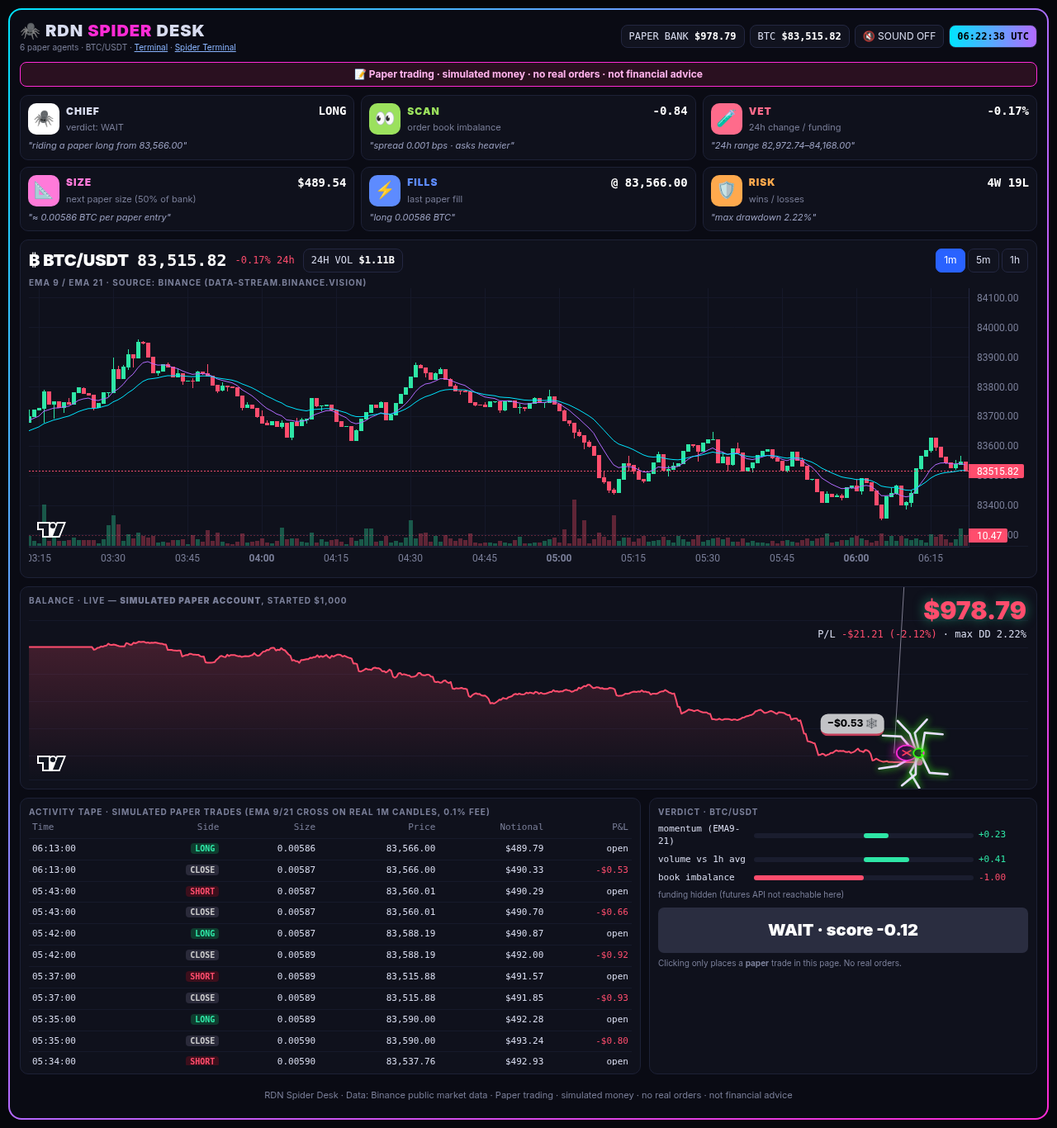
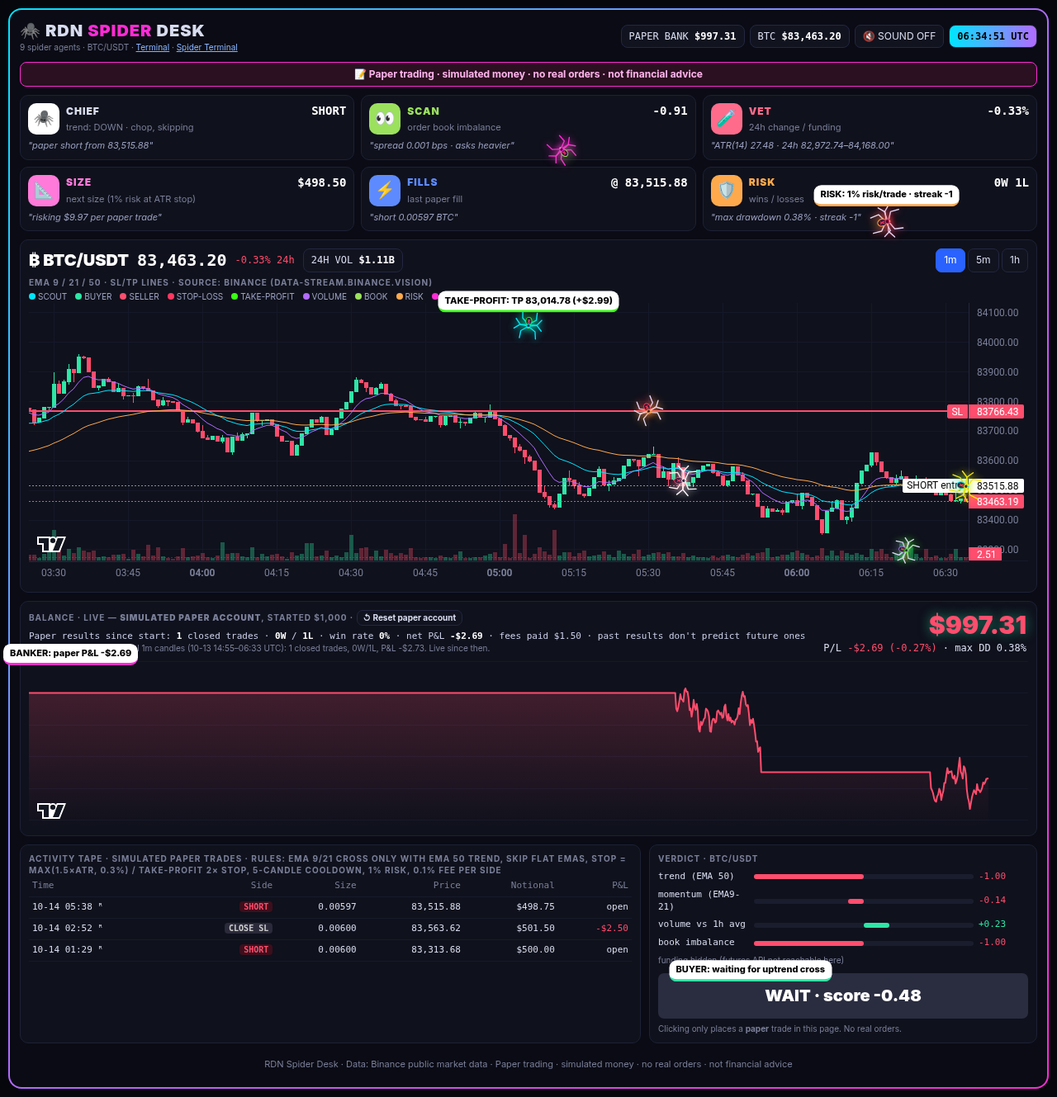
Desk: 9 job spiders, trend/ATR paper strategy with SL/TP lines, persisted paper account + stats

diff --git a/desk/index.html b/desk/index.html
@@ -21,8 +21,8 @@ button{font:inherit;cursor:pointer;background:#11131f;color:#d8dcef;border:1px s
 #chart{height:340px}#bal{height:210px}
 .balwrap{position:relative}.btot{position:absolute;right:12px;top:8px;text-align:right;z-index:3}.btot .v{font-size:30px;font-weight:900;color:#2ee6a6;text-shadow:0 0 14px #2ee6a688}
 #spider{position:absolute;left:0;top:0;width:90px;height:90px;pointer-events:none;z-index:4;--c1:#ff2bd6;--c2:#39ff14;--leg:#e8e0ff}#spider svg{width:100%;height:100%;filter:drop-shadow(0 0 10px #39ff14)}
-#silk{position:absolute;inset:0;pointer-events:none;z-index:3}
-#sbub{position:absolute;left:0;top:0;z-index:5;background:#fff;color:#000;font-weight:800;padding:4px 8px;border-radius:9px;white-space:nowrap;pointer-events:none;border-bottom:3px solid #ff2bd6}
+#ov{position:fixed;inset:0;pointer-events:none;z-index:20}
+.sb{position:fixed;left:0;top:0;z-index:21;font-size:11px;transition:opacity .35s;background:#fff;color:#000;font-weight:800;padding:4px 8px;border-radius:9px;white-space:nowrap;pointer-events:none;border-bottom:3px solid #ff2bd6}
 .lab{font-size:10px;color:#7a7f99;letter-spacing:1px;text-transform:uppercase;font-weight:700}
 .bottom{display:grid;grid-template-columns:1.6fr 1fr;gap:10px}
 table{width:100%;border-collapse:collapse;font-family:monospace;font-size:11px}th,td{padding:5px 4px;text-align:right;border-bottom:1px solid #161a2b}th{color:#7a7f99;font-weight:500}td:first-child,th:first-child{text-align:left}
@@ -35,12 +35,14 @@ table{width:100%;border-collapse:collapse;font-family:monospace;font-size:11px}t
 footer{text-align:center;color:#7a7f99;padding:8px;font-size:11px}a{color:#8ab4ff}
 @media(max-width:820px){.agents{grid-template-columns:repeat(2,1fr)}.bottom{grid-template-columns:1fr}#chart{height:260px}.btot .v{font-size:22px}#spider{width:64px;height:64px}}
 @media(max-width:420px){.agents{grid-template-columns:1fr}}
-</style></head><body><svg width="0" height="0" style="position:absolute"><style>.lg{stroke:var(--leg);stroke-width:2.2;fill:none;stroke-linecap:round}.L{transform-origin:32px 34px;animation:wg .18s infinite alternate ease-in-out}.R{transform-origin:32px 34px;animation:wg .18s infinite alternate-reverse ease-in-out}@keyframes wg{from{transform:rotate(-7deg)}to{transform:rotate(7deg)}}</style><defs><symbol id="spd" viewBox="0 0 64 64"><g class="L"><path class="lg" d="M28 30 Q16 18 8 22"/><path class="lg" d="M27 33 Q14 28 5 34"/><path class="lg" d="M27 36 Q14 40 6 48"/><path class="lg" d="M28 39 Q18 50 12 58"/></g>
+#stats{font-family:monospace;font-size:11px;margin:6px 0 0;color:#c9cde8}#stats b{color:#fff}#seed{font-size:10px;color:#7a7f99}.legend{display:flex;flex-wrap:wrap;gap:4px 10px;font-size:10px;color:#9aa0c0;margin-top:4px}.legend i{display:inline-block;width:8px;height:8px;border-radius:50%;margin-right:3px}
+</style></head><body><svg width="0" height="0" style="position:absolute"><style>.lg{stroke:var(--leg);stroke-width:2.2;fill:none;stroke-linecap:round}.L{transform-origin:32px 34px;animation:wg .18s infinite alternate ease-in-out}.R{transform-origin:32px 34px;animation:wg .18s infinite alternate-reverse ease-in-out}@keyframes wg{from{transform:rotate(-7deg)}to{transform:rotate(7deg)}}#stats{font-family:monospace;font-size:11px;margin:6px 0 0;color:#c9cde8}#stats b{color:#fff}#seed{font-size:10px;color:#7a7f99}.legend{display:flex;flex-wrap:wrap;gap:4px 10px;font-size:10px;color:#9aa0c0;margin-top:4px}.legend i{display:inline-block;width:8px;height:8px;border-radius:50%;margin-right:3px}
+</style><defs><symbol id="spd" viewBox="0 0 64 64"><g class="L"><path class="lg" d="M28 30 Q16 18 8 22"/><path class="lg" d="M27 33 Q14 28 5 34"/><path class="lg" d="M27 36 Q14 40 6 48"/><path class="lg" d="M28 39 Q18 50 12 58"/></g>
 <g class="R"><path class="lg" d="M36 30 Q48 18 56 22"/><path class="lg" d="M37 33 Q50 28 59 34"/><path class="lg" d="M37 36 Q50 40 58 48"/><path class="lg" d="M36 39 Q46 50 52 58"/></g>
 <ellipse cx="32" cy="42" rx="10" ry="12" fill="#1a0b2e" stroke="var(--c1)" stroke-width="1.5"/><path d="M28 40 L32 46 L36 40 M28 46 L32 50 L36 46" stroke="#ff3860" stroke-width="2" fill="none"/>
 <circle cx="32" cy="28" r="7" fill="#1a0b2e" stroke="var(--c2)" stroke-width="1.5"/><circle cx="29" cy="27" r="1.8" fill="var(--c2)"/><circle cx="35" cy="27" r="1.8" fill="var(--c2)"/><circle cx="31" cy="24.5" r="1" fill="var(--c1)"/><circle cx="33" cy="24.5" r="1" fill="var(--c1)"/></symbol></defs></svg>
 <div class="frame">
-<header><div class="brand">🕷 RDN <span>SPIDER</span> DESK<small>6 paper agents · BTC/USDT · <a href="../">Terminal</a> · <a href="../skull/">Spider Terminal</a></small></div>
+<header><div class="brand">🕷 RDN <span>SPIDER</span> DESK<small>9 spider agents · BTC/USDT · <a href="../">Terminal</a> · <a href="../skull/">Spider Terminal</a></small></div>
 <div class="pills"><div class="pill">PAPER BANK <b id="hbank">$1,000.00</b></div><div class="pill">BTC <b id="hbtc">—</b></div><button id="snd">🔇 SOUND OFF</button><div class="pill" id="clock">--:--:-- UTC</div></div></header>
 <div class="warn">📝 Paper trading · simulated money · no real orders · not financial advice</div>
 <div class="agents">
@@ -54,90 +56,149 @@ footer{text-align:center;color:#7a7f99;padding:8px;font-size:11px}a{color:#8ab4f
 <div class="panel"><div class="ch-head"><span class="big">₿ BTC/USDT</span><span class="big mono" id="px">—</span><span id="chg" class="mono"></span>
 <span class="pill">24H VOL <b id="vol">—</b></span><span class="pill" id="fundP" style="display:none">FUNDING <b id="fund">—</b></span>
 <span style="margin-left:auto"><button data-i="1m" class="on">1m</button> <button data-i="5m">5m</button> <button data-i="1h">1h</button></span></div>
-<div class="lab" id="emaLab">EMA 9 / EMA 21 · source: Binance (data-stream.binance.vision)</div><div id="chart"></div></div>
-<div class="panel balwrap"><div class="lab">Balance · live — <b>simulated paper account</b>, started $1,000</div>
+<div class="lab" id="emaLab">EMA 9 / 21 / 50 · SL/TP lines · source: Binance (data-stream.binance.vision)</div><div class="legend" id="legend"></div><div id="chart"></div></div>
+<div class="panel balwrap"><div class="lab">Balance · live — <b>simulated paper account</b>, started $1,000 · <button id="rst" style="padding:2px 7px">↺ Reset paper account</button></div><div id="stats">—</div><div id="seed"></div>
 <div class="btot"><div class="v" id="bv">$1,000.00</div><div class="mono" id="bpl"></div></div>
-<div id="bal"></div><canvas id="silk"></canvas><div id="sbub">🕷 warming up</div></div>
+<div id="bal"></div></div>
 <div class="bottom">
-<div class="panel"><div class="lab">Activity tape · simulated paper trades (EMA 9/21 cross on real 1m candles, 0.1% fee)</div><div id="tape"><table><thead><tr><th>Time</th><th>Side</th><th>Size</th><th>Price</th><th>Notional</th><th>P&amp;L</th></tr></thead><tbody id="tb"></tbody></table></div></div>
+<div class="panel"><div class="lab">Activity tape · simulated paper trades · rules: EMA 9/21 cross only with EMA 50 trend, skip flat EMAs, stop = max(1.5×ATR, 0.3%) / take-profit 2× stop, 5-candle cooldown, 1% risk, 0.1% fee per side</div><div id="tape"><table><thead><tr><th>Time</th><th>Side</th><th>Size</th><th>Price</th><th>Notional</th><th>P&amp;L</th></tr></thead><tbody id="tb"></tbody></table></div></div>
 <div class="panel"><div class="lab">Verdict · BTC/USDT</div><div id="sigs"></div>
 <button id="verdict" class="vW">WAIT</button><div style="font-size:10px;color:#7a7f99;margin-top:6px">Clicking only places a <b>paper</b> trade in this page. No real orders.</div></div>
 </div>
-<footer>RDN Spider Desk · Data: Binance public market data · Paper trading · simulated money · no real orders · not financial advice</footer>
+<canvas id="ov"></canvas><div id="bubs"></div><footer>RDN Spider Desk · Data: Binance public market data · Paper trading · simulated money · no real orders · not financial advice</footer>
 </div>
 <script src="../spider.js"></script>
 <script>
 const R="https://data-api.binance.vision/api/v3",WS="wss://data-stream.binance.vision/stream?streams=";
-const $=i=>document.getElementById(i),f$=n=>n.toLocaleString("en-US",{style:"currency",currency:"USD"}),fp=n=>n.toLocaleString("en-US",{minimumFractionDigits:2,maximumFractionDigits:2});
+const $=i=>document.getElementById(i),f$=n=>(n<0?"-":"")+"$"+Math.abs(n).toLocaleString("en-US",{minimumFractionDigits:2,maximumFractionDigits:2}),fp=n=>n.toLocaleString("en-US",{minimumFractionDigits:2,maximumFractionDigits:2});
 let iv="1m",last=null,sound=false,actx,book={imb:0,spr:0},funding=null,t24=null;
-// ---- main chart
+// ---------- main chart
 const opt={layout:{background:{color:"#0f111c"},textColor:"#7a7f99"},grid:{vertLines:{color:"#151829"},horzLines:{color:"#151829"}},timeScale:{timeVisible:true,borderColor:"#232741"},rightPriceScale:{borderColor:"#232741"},autoSize:true};
 const ch=LightweightCharts.createChart($("chart"),opt);
 const cs=ch.addCandlestickSeries({upColor:"#2ee6a6",downColor:"#ff4d6d",wickUpColor:"#2ee6a6",wickDownColor:"#ff4d6d",borderVisible:false});
 const vs=ch.addHistogramSeries({priceScaleId:"v",priceFormat:{type:"volume"}});ch.priceScale("v").applyOptions({scaleMargins:{top:.82,bottom:0}});
-const e9=ch.addLineSeries({color:"#b26bff",lineWidth:1,priceLineVisible:false,lastValueVisible:false}),e21=ch.addLineSeries({color:"#00e5ff",lineWidth:1,priceLineVisible:false,lastValueVisible:false});
+const LS=c=>ch.addLineSeries({color:c,lineWidth:1,priceLineVisible:false,lastValueVisible:false,crosshairMarkerVisible:false});
+const e9=LS("#b26bff"),e21=LS("#00e5ff"),e50=LS("#ffa94d");
 const mk=k=>({time:k[0]/1000,open:+k[1],high:+k[2],low:+k[3],close:+k[4],vol:+k[5]});
 function ema(a,n){const k=2/(n+1);let e=a[0],o=[];for(const v of a){e=v*k+e*(1-k);o.push(e)}return o}
+function atr(c,n=14){let o=[],a=null;for(let i=0;i<c.length;i++){const tr=i?Math.max(c[i].high-c[i].low,Math.abs(c[i].high-c[i-1].close),Math.abs(c[i].low-c[i-1].close)):c[i].high-c[i].low;a=a==null?tr:(a*(n-1)+tr)/n;o.push(a)}return o}
 let candles=[],kws;
 async function loadChart(){const d=await (await fetch(`${R}/klines?symbol=BTCUSDT&interval=${iv}&limit=300`)).json();candles=d.map(mk);drawAll();
- if(kws)kws.close();kws=new WebSocket(WS+"btcusdt@kline_"+iv);kws.onmessage=e=>{const k=JSON.parse(e.data).data.k,c={time:k.t/1000,open:+k.o,high:+k.h,low:+k.l,close:+k.c,vol:+k.v};
- const L=candles[candles.length-1];if(L&&L.time===c.time)candles[candles.length-1]=c;else if(!L||c.time>L.time){candles.push(c);if(candles.length>400)candles.shift()}
- cs.update(c);vs.update({time:c.time,value:c.vol,color:c.close>=c.open?"#2ee6a655":"#ff4d6d55"});const cl=candles.map(x=>x.close),a=ema(cl,9),b=ema(cl,21);e9.update({time:c.time,value:a.at(-1)});e21.update({time:c.time,value:b.at(-1)})}}
-function drawAll(){cs.setData(candles);vs.setData(candles.map(c=>({time:c.time,value:c.vol,color:c.close>=c.open?"#2ee6a655":"#ff4d6d55"})));const cl=candles.map(x=>x.close),a=ema(cl,9),b=ema(cl,21);
- e9.setData(candles.map((c,i)=>({time:c.time,value:a[i]})));e21.setData(candles.map((c,i)=>({time:c.time,value:b[i]})))}
+ if(kws)kws.close();const my=iv;kws=new WebSocket(WS+"btcusdt@kline_"+iv);kws.onmessage=e=>{if(my!==iv)return;const k=JSON.parse(e.data).data.k,c=mk([k.t,k.o,k.h,k.l,k.c,k.v]);
+ const L=candles.at(-1);if(L&&L.time===c.time)candles[candles.length-1]=c;else if(!L||c.time>L.time){candles.push(c);if(candles.length>400)candles.shift()}
+ cs.update(c);vs.update({time:c.time,value:c.vol,color:c.close>=c.open?"#2ee6a655":"#ff4d6d55"});const cl=candles.map(x=>x.close);[[e9,9],[e21,21],[e50,50]].forEach(([s,n])=>s.update({time:c.time,value:ema(cl,n).at(-1)}))}}
+function drawAll(){cs.setData(candles);vs.setData(candles.map(c=>({time:c.time,value:c.vol,color:c.close>=c.open?"#2ee6a655":"#ff4d6d55"})));const cl=candles.map(x=>x.close);
+ [[e9,9],[e21,21],[e50,50]].forEach(([s,n])=>{const e=ema(cl,n);s.setData(candles.map((c,i)=>({time:c.time,value:e[i]})))})}
 document.querySelectorAll("[data-i]").forEach(b=>b.onclick=()=>{document.querySelectorAll("[data-i]").forEach(x=>x.classList.remove("on"));b.classList.add("on");iv=b.dataset.i;loadChart()});
-// ---- paper strategy on 1m candles (independent of the chart tab)
-const P={cash:1000,pos:0,side:null,entry:0,qty:0,trades:[],w:0,l:0,hist:[],peak:1000,dd:0};let m1=[];
-function equity(px){return P.cash+(P.side?P.qty*(P.side==="LONG"?px-P.entry:P.entry-px):0)}
-function trade(side,px,t,manual){const fee=.001;if(P.side){const pnl=P.qty*(P.side==="LONG"?px-P.entry:P.entry-px)-P.qty*px*fee;P.cash+=pnl;pnl>=0?P.w++:P.l++;
-  P.trades.unshift({t,side:"CLOSE",qty:P.qty,px,not:P.qty*px,pnl,m:manual});bub(pnl);P.side=null;P.qty=0}
- if(side!=="CLOSE"){const not=P.cash*.5;P.qty=not/px;P.entry=px;P.side=side;P.cash-=not*fee;P.trades.unshift({t,side,qty:P.qty,px,not,pnl:null,m:manual})}
- if(P.trades.length>60)P.trades.length=60;if(sound&&!manual)beep(side!=="SHORT")}
-function mark(t,px){const e=equity(px);const h=P.hist,tt=Math.floor(t);if(h.length&&h.at(-1).time>=tt)h.at(-1).value=e;else h.push({time:tt,value:e});P.peak=Math.max(P.peak,e);P.dd=Math.max(P.dd,(P.peak-e)/P.peak*100)}
-async function startPaper(){const d=await (await fetch(`${R}/klines?symbol=BTCUSDT&interval=1m&limit=500`)).json();m1=d.map(mk);
- const cl=m1.map(c=>c.close),a=ema(cl,9),b=ema(cl,21);for(let i=22;i<m1.length-1;i++){const x=a[i-1]-b[i-1],y=a[i]-b[i];if(x<=0&&y>0)trade("LONG",m1[i].close,m1[i].time);if(x>=0&&y<0)trade("SHORT",m1[i].close,m1[i].time);mark(m1[i].time,m1[i].close)}
- const w=new WebSocket(WS+"btcusdt@kline_1m");w.onmessage=e=>{const k=JSON.parse(e.data).data.k,c=mk([k.t,k.o,k.h,k.l,k.c,k.v]);if(m1.at(-1).time===c.time)m1[m1.length-1]=c;else m1.push(c);
-  if(k.x){const cl=m1.map(c=>c.close),a=ema(cl,9),b=ema(cl,21),n=cl.length-1,x=a[n-1]-b[n-1],y=a[n]-b[n];if(x<=0&&y>0)trade("LONG",c.close,Date.now()/1000);if(x>=0&&y<0)trade("SHORT",c.close,Date.now()/1000)}};
+// ---------- paper strategy (1m candles, persisted)
+const KEY="rdnDeskPaperV2",FEE=.001,RISK=.01,DDMAX=10,COOL=5,PAUSE_N=30;
+const fresh=()=>({cash:1000,pos:null,trades:[],hist:[],w:0,l:0,fees:0,streak:0,cool:0,pauseUntil:0,halted:false,peak:1000,dd:0,lastT:0,seed:null,events:[]});
+let P=JSON.parse(localStorage.getItem(KEY)||"null")||fresh(),m1=[],live=false;
+const save=()=>{P.hist=P.hist.slice(-3000);P.trades=P.trades.slice(0,200);localStorage.setItem(KEY,JSON.stringify(P))};
+function ev(who,msg){P.events.unshift({who,msg,t:Date.now()});P.events.length=Math.min(P.events.length,30)}
+function equity(px){return P.cash+(P.pos?P.pos.qty*(P.pos.side==="LONG"?px-P.pos.entry:P.pos.entry-px):0)}
+function closePos(px,t,why){const p=P.pos,gross=p.qty*(p.side==="LONG"?px-p.entry:p.entry-px),fee=p.qty*px*FEE,pnl=gross-fee;P.cash+=pnl;P.fees+=fee;
+ const net=pnl-p.fee;net>=0?(P.w++,P.streak=Math.max(0,P.streak)+1):(P.l++,P.streak=Math.min(0,P.streak)-1);
+ P.trades.unshift({t,side:"CLOSE",why,qty:p.qty,px,not:p.qty*px,pnl:net,live});P.pos=null;P.cool=COOL;
+ if(P.streak<=-3){P.pauseUntil=t+PAUSE_N*60;ev("RISK",`3 losses in a row → pausing ${PAUSE_N}m`)}
+ ev(why==="TP"?"TP":why==="SL"?"SL":"SELLER",`${why} close ${p.side} @ ${fp(px)} → ${net>=0?"+":""}${f$(net)}`);if(live&&sound)beep(net>=0)}
+function openPos(side,px,a,t,manual){if(P.halted||t<P.pauseUntil||P.pos)return false;const eq=P.cash,sl=Math.max(1.5*a,px*.003),qty=Math.min(eq*RISK/sl,eq*.5/px);if(!(qty>0))return false;
+ const fee=qty*px*FEE;P.cash-=fee;P.fees+=fee;P.pos={side,entry:px,qty,sl:side==="LONG"?px-sl:px+sl,tp:side==="LONG"?px+2*sl:px-2*sl,t,fee};
+ P.trades.unshift({t,side,qty,px,not:qty*px,pnl:null,live,manual});ev(side==="LONG"?"BUYER":"SELLER",`${manual?"manual ":""}${side} @ ${fp(px)} · SL ${fp(P.pos.sl)} · TP ${fp(P.pos.tp)}`);return true}
+function mark(t,px){const e=equity(px),h=P.hist,tt=Math.floor(t/60)*60;if(h.length&&h.at(-1).time>=tt)h.at(-1).value=e;else h.push({time:tt,value:e});P.peak=Math.max(P.peak,e);const dd=(P.peak-e)/P.peak*100;P.dd=Math.max(P.dd,dd);
+ if(dd>=DDMAX&&!P.halted){P.halted=true;ev("RISK",`drawdown ${dd.toFixed(1)}% ≥ ${DDMAX}% → trading halted until reset`)}}
+let IND={};
+function step(i){const c=m1[i];if(i<60)return;const cl=m1.slice(0,i+1).map(x=>x.close);const a9=ema(cl,9),a21=ema(cl,21),a50=ema(cl,50),A=atr(m1.slice(0,i+1)),n=cl.length-1,a=A[n];
+ // exits on this candle's range (if both, assume stop first — conservative)
+ if(P.pos&&c.time>P.pos.t){const p=P.pos,L=p.side==="LONG";if(L?c.low<=p.sl:c.high>=p.sl)closePos(p.sl,c.time+60,"SL");else if(L?c.high>=p.tp:c.low<=p.tp)closePos(p.tp,c.time+60,"TP")}
+ const slope=(a50[n]-a50[n-10])/c.close,gap=Math.abs(a9[n]-a21[n])/c.close,flat=Math.abs(slope)<.0001||gap<.00002;
+ IND={a9:a9[n],a21:a21[n],a50:a50[n],atr:a,slope,flat,trend:c.close>a50[n]&&slope>0?"UP":c.close<a50[n]&&slope<0?"DOWN":"MIXED"};
+ if(P.cool>0)P.cool--;else if(!P.pos&&!flat){const up=a9[n-1]<=a21[n-1]&&a9[n]>a21[n],dn=a9[n-1]>=a21[n-1]&&a9[n]<a21[n];
+  if(up&&IND.trend==="UP")openPos("LONG",c.close,a,c.time+60);if(dn&&IND.trend==="DOWN")openPos("SHORT",c.close,a,c.time+60)}
+ mark(c.time+60,c.close);P.lastT=c.time}
+async function startPaper(){const d=await (await fetch(`${R}/klines?symbol=BTCUSDT&interval=1m&limit=1000`)).json();m1=d.map(mk);m1.pop();// drop unfinished candle
+ const seeding=!P.lastT;const t0=Date.now();
+ for(let i=0;i<m1.length;i++)if(m1[i].time>P.lastT)step(i);
+ if(seeding){const e=equity(m1.at(-1).close);P.seed={candles:m1.length-60,from:m1[60].time,to:m1.at(-1).time,pnl:e-1000,w:P.w,l:P.l,trades:P.trades.filter(t=>t.side==="CLOSE").length,end:e};}
+ live=true;save();
+ const w=new WebSocket(WS+"btcusdt@kline_1m");w.onmessage=e=>{const k=JSON.parse(e.data).data.k;if(!k.x){// intrabar SL/TP check on live price
+   const px=+k.c;if(P.pos){const p=P.pos,L=p.side==="LONG";if(L?px<=p.sl:px>=p.sl)closePos(px,Date.now()/1000,"SL");else if(L?px>=p.tp:px<=p.tp)closePos(px,Date.now()/1000,"TP");if(!P.pos)save()}return}
+  const c=mk([k.t,k.o,k.h,k.l,k.c,k.v]);if(c.time<=P.lastT)return;m1.push(c);if(m1.length>1200)m1.shift();step(m1.length-1);save()};
  render()}
-// ---- live ticker, book, funding
-new WebSocket(WS+"btcusdt@ticker/btcusdt@depth20@1000ms").onmessage=e=>{const m=JSON.parse(e.data);if(m.stream.endsWith("ticker")){t24=m.data;last=+t24.c}else{const d=m.data,bq=d.bids.reduce((s,x)=>s+ +x[1],0),aq=d.asks.reduce((s,x)=>s+ +x[1],0);
- book={imb:(bq-aq)/(bq+aq),spr:(d.asks[0][0]-d.bids[0][0])/d.bids[0][0]*1e4}}};
+$("rst").onclick=()=>{if(!confirm("Reset the simulated paper account to $1,000?"))return;localStorage.removeItem(KEY);P=fresh();P.lastT=Math.floor(Date.now()/1000);P.seed={reset:true};P.hist=[];mark(Date.now()/1000,last||m1.at(-1).close);save();render()};
+// ---------- live ticker, book, funding
+new WebSocket(WS+"btcusdt@ticker/btcusdt@depth20@1000ms").onmessage=e=>{const m=JSON.parse(e.data);if(m.stream.endsWith("ticker")){t24=m.data;last=+t24.c}else{const d=m.data,bq=d.bids.reduce((s,x)=>s+ +x[1],0),aq=d.asks.reduce((s,x)=>s+ +x[1],0);book={imb:(bq-aq)/(bq+aq),spr:(d.asks[0][0]-d.bids[0][0])/d.bids[0][0]*1e4}}};
 fetch("https://fapi.binance.com/fapi/v1/premiumIndex?symbol=BTCUSDT").then(r=>r.ok?r.json():null).then(d=>{if(d&&d.lastFundingRate!=null){funding=+d.lastFundingRate;$("fundP").style.display=""}}).catch(()=>{});
-function signals(){const cl=m1.map(c=>c.close);if(cl.length<30)return null;const a=ema(cl,9),b=ema(cl,21),px=last||cl.at(-1);
- const mom=Math.max(-1,Math.min(1,(a.at(-1)-b.at(-1))/b.at(-1)*1000));const v=m1.slice(-5).reduce((s,c)=>s+c.vol,0)/5,va=m1.slice(-60).reduce((s,c)=>s+c.vol,0)/60;
- const vr=Math.max(-1,Math.min(1,(v/va-1)))*Math.sign(mom||1);const ob=Math.max(-1,Math.min(1,book.imb*2));const fu=funding==null?null:Math.max(-1,Math.min(1,-funding*5000));
- const s=[["momentum (EMA9-21)",mom],["volume vs 1h avg",vr],["book imbalance",ob]];if(fu!=null)s.push(["funding (contrarian)",fu]);
- const score=s.reduce((t,x)=>t+x[1],0)/s.length;return{s,score,v:score>.25?"LONG":score<-.25?"SHORT":"WAIT"}}
-$("verdict").onclick=()=>{const g=signals();if(!g||!last)return;if(g.v==="WAIT"){if(P.side)trade("CLOSE",last,Date.now()/1000,true)}else if(P.side!==g.v)trade(g.v,last,Date.now()/1000,true);render()};
-// ---- balance chart + spider
+function signals(){if(m1.length<60)return null;const v=m1.slice(-5).reduce((s,c)=>s+c.vol,0)/5,va=m1.slice(-60).reduce((s,c)=>s+c.vol,0)/60;
+ const mom=Math.max(-1,Math.min(1,(IND.a9-IND.a21)/IND.a21*1000)),tr=IND.trend==="UP"?1:IND.trend==="DOWN"?-1:0,vr=Math.max(-1,Math.min(1,v/va-1))*Math.sign(mom||1),ob=Math.max(-1,Math.min(1,book.imb*2)),fu=funding==null?null:Math.max(-1,Math.min(1,-funding*5000));
+ const s=[["trend (EMA 50)",tr],["momentum (EMA9-21)",mom],["volume vs 1h avg",vr],["book imbalance",ob]];if(fu!=null)s.push(["funding (contrarian)",fu]);
+ const score=s.reduce((t,x)=>t+x[1],0)/s.length;return{s,score,v:IND.flat?"WAIT":score>.3?"LONG":score<-.3?"SHORT":"WAIT",vr:v/va}}
+$("verdict").onclick=()=>{const g=signals();if(!g||!last)return;const t=Date.now()/1000;if(g.v==="WAIT"){if(P.pos)closePos(last,t,"MANUAL")}else if(!P.pos)openPos(g.v,last,IND.atr,t,true);save();render()};
+// ---------- balance chart
 const bc=LightweightCharts.createChart($("bal"),{...opt,rightPriceScale:{visible:false},timeScale:{visible:false},grid:{vertLines:{visible:false},horzLines:{color:"#151829"}},handleScroll:false,handleScale:false});
 bc.priceScale("right").applyOptions({scaleMargins:{top:.3,bottom:.2}});const bs=bc.addAreaSeries({lineColor:"#2ee6a6",topColor:"#2ee6a644",bottomColor:"#2ee6a600",lineWidth:2,priceLineVisible:false});
-let bubT=0;function bub(p){$("sbub").textContent=(p>=0?"+":"−")+f$(Math.abs(p)).replace("$","$")+(p>=0?" 🕷💰":" 🕸");$("sbub").style.borderBottomColor=p>=0?"#2ee6a6":"#ff4d6d";bubT=Date.now()}
-let LINE=[],cxp=null,lt=performance.now();const SPD=new RDNSpider({S:30,c1:"#ff2bd6",c2:"#39ff14",x:40,y:60});
-function cacheLine(){const o=$("bal"),ox=o.offsetLeft,oy=o.offsetTop,ts=bc.timeScale();LINE=[];for(const p of P.hist){const x=ts.timeToCoordinate(p.time),y=bs.priceToCoordinate(p.value);if(x!=null&&y!=null)LINE.push([x+ox,y+oy])}}
-function yAt(x){if(!LINE.length)return null;if(x<=LINE[0][0])return LINE[0][1];for(let i=1;i<LINE.length;i++)if(LINE[i][0]>=x){const a=LINE[i-1],b=LINE[i],t=(x-a[0])/((b[0]-a[0])||1);return a[1]+(b[1]-a[1])*t}return LINE.at(-1)[1]}
-(function loop(t){const dt=Math.min(.05,(t-lt)/1000);lt=t;const wrap=document.querySelector(".balwrap"),cv=$("silk"),W=wrap.clientWidth,H=wrap.clientHeight;if(cv.width!==W||cv.height!==H){cv.width=W;cv.height=H}const g=cv.getContext("2d");g.clearRect(0,0,W,H);
- if(LINE.length){const end=LINE.at(-1);if(cxp==null)cxp=LINE[0][0]+20;const d=end[0]-cxp,v=RDN_REDUCED.matches?1e9:Math.max(40,Math.min(160,Math.abs(d)*1.5));cxp+=Math.sign(d)*Math.min(Math.abs(d),v*dt);
-  const y=yAt(cxp);SPD.setCarrot(cxp,y-SPD.S*.35);g.beginPath();g.arc(end[0],end[1],4,0,7);g.fillStyle="#ff2bd6";g.fill()}
- SPD.update(dt);g.strokeStyle="rgba(235,230,255,.5)";g.lineWidth=1;g.beginPath();g.moveTo(SPD.x-SPD.S*.5*Math.cos(SPD.h),0);g.lineTo(SPD.x-SPD.S*.9*Math.cos(SPD.h),SPD.y-SPD.S*.9*Math.sin(SPD.h));g.stroke();SPD.draw(g);
- const bw=$("sbub").offsetWidth;$("sbub").style.transform=`translate(${Math.max(4,SPD.x-bw-SPD.S*1.3)}px,${SPD.y-SPD.S*1.6}px)`;$("sbub").style.opacity=Date.now()-bubT<15000?1:.75;requestAnimationFrame(loop)})(performance.now());
-// ---- render every second
-function render(){const px=last||(m1.at(-1)||{}).close;if(!px)return;mark(Date.now()/1000,px);bs.setData(P.hist);bc.timeScale().fitContent();bc.timeScale().applyOptions({rightOffset:Math.max(5,P.hist.length*.12)});cacheLine();
- const e=equity(px),pl=e-1000,cc=pl>=0?"#2ee6a6":"#ff4d6d";bs.applyOptions({lineColor:cc,topColor:cc+"44",bottomColor:cc+"00"});$("bv").style.color=cc;$("bv").textContent=f$(e);$("hbank").textContent=f$(e);$("bpl").innerHTML=`P/L <span class="${pl>=0?"up":"dn"}">${pl>=0?"+":""}${f$(pl)} (${(pl/10).toFixed(2)}%)</span> · max DD ${P.dd.toFixed(2)}%`;
+// SL/TP price lines
+let slL=null,tpL=null,enL=null;function lines(){for(const l of [slL,tpL,enL])if(l)cs.removePriceLine(l);slL=tpL=enL=null;if(!P.pos)return;const p=P.pos;
+ enL=cs.createPriceLine({price:p.entry,color:"#ffffff88",lineWidth:1,lineStyle:2,title:p.side+" entry"});slL=cs.createPriceLine({price:p.sl,color:"#ff4d6d",lineWidth:2,lineStyle:0,title:"SL"});tpL=cs.createPriceLine({price:p.tp,color:"#2ee6a6",lineWidth:2,lineStyle:0,title:"TP"})}
+let lastPosKey="";
+// ---------- render (1s)
+function render(){const px=last||(m1.at(-1)||{}).close;if(!px)return;if(live)mark(Date.now()/1000,px);bs.setData(P.hist);bc.timeScale().fitContent();bc.timeScale().applyOptions({rightOffset:Math.max(5,P.hist.length*.04)});
+ const pk=P.pos?P.pos.t+P.pos.side:"";if(pk!==lastPosKey){lines();lastPosKey=pk}
+ const e=equity(px),pl=e-1000,cc=pl>=0?"#2ee6a6":"#ff4d6d";bs.applyOptions({lineColor:cc,topColor:cc+"44",bottomColor:cc+"00"});$("bv").style.color=cc;$("bv").textContent=f$(e);$("hbank").textContent=f$(e);
+ $("bpl").innerHTML=`P/L <span class="${pl>=0?"up":"dn"}">${pl>=0?"+":""}${f$(pl)} (${(pl/10).toFixed(2)}%)</span> · max DD ${P.dd.toFixed(2)}%`;
+ const n=P.w+P.l;$("stats").innerHTML=`Paper results since start: <b>${n}</b> closed trades · <b class="up">${P.w}W</b> / <b class="dn">${P.l}L</b> · win rate <b>${n?(P.w/n*100).toFixed(0):0}%</b> · net P&amp;L <b class="${pl>=0?"up":"dn"}">${pl>=0?"+":""}${f$(pl)}</b> · fees paid ${f$(P.fees)}${P.halted?' · <b class="dn">HALTED (drawdown limit)</b>':Date.now()/1000<P.pauseUntil?' · <b class="dn">PAUSED after 3 losses</b>':""} · past results don't predict future ones`;
+ const sd=P.seed;$("seed").textContent=sd&&!sd.reset?`First-load replay on ${sd.candles} real 1m candles (${new Date(sd.from*1000).toISOString().slice(5,16).replace("T"," ")}–${new Date(sd.to*1000).toISOString().slice(11,16)} UTC): ${sd.trades} closed trades, ${sd.w}W/${sd.l}L, P&L ${sd.pnl>=0?"+":""}${f$(sd.pnl)}. Live since then.`:sd&&sd.reset?"Account was reset; live paper trading only since reset.":"";
  $("hbtc").textContent="$"+fp(px);$("px").textContent=fp(px);
  if(t24){$("chg").innerHTML=`<span class="${+t24.P>=0?"up":"dn"}">${+t24.P>=0?"+":""}${(+t24.P).toFixed(2)}% 24h</span>`;$("vol").textContent="$"+(+t24.q/1e9).toFixed(2)+"B"}
  if(funding!=null)$("fund").textContent=(funding*100).toFixed(4)+"%";
- $("tb").innerHTML=P.trades.map(r=>`<tr><td>${new Date(r.t*1000).toISOString().slice(11,19)}${r.m?"*":""}</td><td><span class="tag ${r.side[0]}">${r.side}</span></td><td>${r.qty.toFixed(5)}</td><td>${fp(r.px)}</td><td>${f$(r.not)}</td><td class="${r.pnl==null?"":r.pnl>=0?"up":"dn"}">${r.pnl==null?"open":(r.pnl>=0?"+":"")+f$(r.pnl)}</td></tr>`).join("");
+ $("tb").innerHTML=P.trades.slice(0,40).map(r=>`<tr><td>${new Date(r.t*1000).toISOString().slice(5,16).replace("T"," ")}${r.manual?"*":""}${r.live?"":" ᴿ"}</td><td><span class="tag ${r.side[0]}">${r.side}${r.why?" "+r.why:""}</span></td><td>${r.qty.toFixed(5)}</td><td>${fp(r.px)}</td><td>${f$(r.not)}</td><td class="${r.pnl==null?"":r.pnl>=0?"up":"dn"}">${r.pnl==null?"open":(r.pnl>=0?"+":"")+f$(r.pnl)}</td></tr>`).join("")||'<tr><td colspan=6>no paper trades yet</td></tr>';
  const g=signals();if(g){$("sigs").innerHTML=g.s.map(([n,v])=>`<div class="sig"><span>${n}</span><div class="bar"><i style="left:${v>=0?50:50+v*50}%;width:${Math.abs(v)*50}%;background:${v>=0?"#2ee6a6":"#ff4d6d"}"></i></div><span class="${v>=0?"up":"dn"}">${v>=0?"+":""}${v.toFixed(2)}</span></div>`).join("")+(funding==null?'<div style="font-size:10px;color:#7a7f99">funding hidden (futures API not reachable here)</div>':"");
   $("verdict").textContent=(g.v==="WAIT"?"WAIT":"PAPER "+g.v)+" · score "+g.score.toFixed(2);$("verdict").className="v"+g.v[0]}
- const lt=P.trades[0];$("mChief").textContent=P.side||"FLAT";$("sChief").textContent=g?"verdict: "+g.v:"warming up";$("qChief").textContent=P.side?`"riding a paper ${P.side.toLowerCase()} from ${fp(P.entry)}"`:'"flat, waiting for a cross"';
+ const lt=P.trades[0];$("mChief").textContent=P.pos?P.pos.side:"FLAT";$("sChief").textContent="trend: "+(IND.trend||"…")+(IND.flat?" · chop, skipping":"");$("qChief").textContent=P.pos?`"paper ${P.pos.side.toLowerCase()} from ${fp(P.pos.entry)}"`:'"flat, waiting for a trend-aligned cross"';
  $("mScan").textContent=(book.imb>=0?"+":"")+book.imb.toFixed(2);$("qScan").textContent=`"spread ${book.spr.toFixed(3)} bps · ${book.imb>=0?"bids":"asks"} heavier"`;
- if(t24){$("mVet").textContent=(+t24.P>=0?"+":"")+(+t24.P).toFixed(2)+"%";$("qVet").textContent=funding!=null?`"funding ${(funding*100).toFixed(4)}%"`:`"24h range ${fp(+t24.l)}–${fp(+t24.h)}"`}
- $("mSize").textContent=f$(P.cash*.5);$("qSize").textContent=`"≈ ${(P.cash*.5/px).toFixed(5)} BTC per paper entry"`;
- if(lt){$("mFills").textContent="@ "+fp(lt.px);$("qFills").textContent=`"${lt.side.toLowerCase()} ${lt.qty.toFixed(5)} BTC"`}
- $("mRisk").textContent=`${P.w}W ${P.l}L`;$("qRisk").textContent=`"max drawdown ${P.dd.toFixed(2)}%"`}
+ if(t24){$("mVet").textContent=(+t24.P>=0?"+":"")+(+t24.P).toFixed(2)+"%";$("qVet").textContent=`"ATR(14) ${IND.atr?fp(IND.atr):"…"} · 24h ${fp(+t24.l)}–${fp(+t24.h)}"`}
+ const sz=IND.atr?Math.min(P.cash*RISK/Math.max(1.5*IND.atr,px*.003)*px,P.cash*.5):0;$("mSize").textContent=f$(sz);$("sSize").textContent="next size (1% risk at ATR stop)";$("qSize").textContent=`"risking ${f$(P.cash*RISK)} per paper trade"`;
+ if(lt){$("mFills").textContent="@ "+fp(lt.px);$("qFills").textContent=`"${lt.side.toLowerCase()}${lt.why?" ("+lt.why+")":""} ${lt.qty.toFixed(5)} BTC"`}
+ $("mRisk").textContent=`${P.w}W ${P.l}L`;$("qRisk").textContent=P.halted?'"halted: drawdown limit"':Date.now()/1000<P.pauseUntil?'"paused after 3 losses"':`"max drawdown ${P.dd.toFixed(2)}% · streak ${P.streak}"`;
+ if(live&&Date.now()%60000<1100)save()}
 setInterval(render,1000);setInterval(()=>$("clock").textContent=new Date().toISOString().slice(11,19)+" UTC",1000);
 function beep(up){try{actx=actx||new AudioContext();const g=actx.createGain(),o=actx.createOscillator();o.type="square";o.frequency.value=up?880:220;g.gain.value=.05;o.connect(g).connect(actx.destination);o.start();o.stop(actx.currentTime+.12)}catch(e){}}
 $("snd").onclick=()=>{sound=!sound;$("snd").textContent=sound?"🔊 SOUND ON":"🔇 SOUND OFF"};
+// ---------- 9 spiders
+const JOBS=[["SCOUT","#00e5ff","#ffe600",13],["BUYER","#2ee6a6","#ffffff",13],["SELLER","#ff4d6d","#ffffff",13],["STOP-LOSS","#ff3860","#ffa94d",12],["TAKE-PROFIT","#39ff14","#00e5ff",12],["VOLUME","#b26bff","#39ff14",11],["BOOK","#9be15d","#ff2bd6",12],["RISK","#ffa94d","#ff3860",14],["BANKER","#ff2bd6","#39ff14",20]];
+const SPS=JOBS.map(([name,c1,c2,S],i)=>{const b=document.createElement("div");b.className="sb";b.style.borderBottomColor=c1;b.style.opacity=0;$("bubs").appendChild(b);
+ return{name,b,msg:"",sp:new RDNSpider({S,c1,c2,leg:i%2?"#e8e0ff":c2,speed:170,x:innerWidth*(.08+.1*i),y:innerHeight*.3}),trail:[],carrotX:null}});
+$("legend").innerHTML=JOBS.map(j=>`<span><i style="background:${j[1]}"></i>${j[0]}</span>`).join("");
+const ov=$("ov"),og=ov.getContext("2d");
+function rect(el){return el.getBoundingClientRect()}
+function chartPt(time,price){const r=rect($("chart")),x=ch.timeScale().timeToCoordinate(time),y=cs.priceToCoordinate(price);return x==null||y==null?null:[r.left+x,r.top+y]}
+const snap=t=>{const s=iv==="1m"?60:iv==="5m"?300:3600;return Math.floor(t/s)*s};
+function crawlAlong(o,pts,dt,speed=90){if(!pts.length)return;if(o.carrotX==null||o.carrotX>pts.at(-1)[0]+1)o.carrotX=pts[0][0];const end=pts.at(-1)[0];o.carrotX=Math.min(end,o.carrotX+speed*dt*(RDN_REDUCED.matches?1e3:1));
+ let y=pts.at(-1)[1];for(let i=1;i<pts.length;i++)if(pts[i][0]>=o.carrotX){const a=pts[i-1],b=pts[i],t=(o.carrotX-a[0])/((b[0]-a[0])||1);y=a[1]+(b[1]-a[1])*t;break}o.sp.setCarrot(o.carrotX,y-o.sp.S*.3)}
+function park(o,el,fx=.85,fy=.5){const r=rect(el);o.sp.setTarget(r.left+r.width*fx,r.top+r.height*fy)}
+function brain(o,dt){const name=o.name,cr=rect($("chart")),lastC=candles.at(-1),px=last||(lastC&&lastC.close);
+ if(name==="SCOUT"){const pts=candles.slice(-60).map(c=>chartPt(c.time,c.high)).filter(Boolean);crawlAlong(o,pts.map(p=>[p[0],p[1]-6]),dt,120);o.msg=IND.trend?`trend ${IND.trend}${IND.flat?" · chop":""} · EMA50 ${IND.slope>0?"↗":"↘"}`:"scouting…"}
+ else if(name==="BUYER"||name==="SELLER"){const side=name==="BUYER"?"LONG":"SHORT",tr=P.trades.find(t=>t.side===side);let p=null;
+  if(tr)p=chartPt(snap(tr.t-60),tr.px)||(P.pos&&P.pos.side===side?chartPt(lastC.time,tr.px):null);
+  if(p)o.sp.setTarget(p[0],p[1]-o.sp.S*.4);else park(o,$("verdict"),name==="BUYER"?.25:.75,.5);
+  o.msg=P.pos&&P.pos.side===side?`in paper ${side} @ ${fp(P.pos.entry)}`:name==="SELLER"&&P.trades[0]&&P.trades[0].side==="CLOSE"?`last close ${P.trades[0].why} ${P.trades[0].pnl>=0?"+":""}${f$(P.trades[0].pnl)}`:tr?`last ${side} @ ${fp(tr.px)}`:`waiting for ${side==="LONG"?"uptrend":"downtrend"} cross`}
+ else if(name==="STOP-LOSS"||name==="TAKE-PROFIT"){const sl=name==="STOP-LOSS",lv=P.pos?(sl?P.pos.sl:P.pos.tp):null,y=lv!=null?cs.priceToCoordinate(lv):null;
+  if(y!=null&&y>0&&y<cr.height)o.sp.setTarget(cr.left+cr.width*(sl?.62:.5),cr.top+y);else park(o,$("chart"),sl?.62:.5,sl?.92:.08);
+  o.msg=P.pos?`${sl?"SL":"TP"} ${fp(lv)} (${sl?"-":"+"}${f$(Math.abs(lv-P.pos.entry)*P.pos.qty)})`:sl?"no position, guard idle":"no target set"}
+ else if(name==="VOLUME"){const c=candles.slice(-40),mx=c.reduce((a,b)=>b.vol>a.vol?b:a,c[0]||{});const p=mx.time?chartPt(mx.time,(lastC||mx).close):null;if(p)o.sp.setTarget(p[0],cr.top+cr.height-40);
+  const g=signals();o.msg=g?`volume ${g.vr.toFixed(1)}× 1h avg`:"counting volume"}
+ else if(name==="BOOK"){park(o,$("mScan").parentElement,.6,.85);o.msg=`book ${book.imb>=0?"bids":"asks"} +${Math.abs(book.imb*100).toFixed(0)}%`}
+ else if(name==="RISK"){park(o,$("mRisk").parentElement,.55,.85);o.msg=P.halted?"HALTED: drawdown limit":Date.now()/1000<P.pauseUntil?"paused after 3 losses":`1% risk/trade · streak ${P.streak}`}
+ else if(name==="BANKER"){const b=rect($("bal")),ts=bc.timeScale(),pts=[];const h=P.hist,stp=Math.max(1,Math.floor(h.length/200));for(let i=0;i<h.length;i+=stp){const x=ts.timeToCoordinate(h[i].time),y=bs.priceToCoordinate(h[i].value);if(x!=null&&y!=null)pts.push([b.left+x,b.top+y])}
+  if(h.length){const x=ts.timeToCoordinate(h.at(-1).time),y=bs.priceToCoordinate(h.at(-1).value);if(x!=null&&y!=null)pts.push([b.left+x,b.top+y])}crawlAlong(o,pts,dt,110);const pl=equity(px||0)-1000;o.msg=px?`paper P&L ${pl>=0?"+":""}${f$(pl)}`:"counting coins"}}
+let lt=performance.now();
+(function loop(t){const dt=Math.min(.05,(t-lt)/1000);lt=t;if(ov.width!==innerWidth||ov.height!==innerHeight){ov.width=innerWidth;ov.height=innerHeight}og.clearRect(0,0,ov.width,ov.height);
+ const slot=Math.floor(Date.now()/3000)%3;
+ SPS.forEach((o,i)=>{try{if(candles.length&&m1.length)brain(o,dt)}catch(e){}const p=o.sp;p.update(dt);o.trail.push([p.x,p.y]);if(o.trail.length>45)o.trail.shift();
+  og.strokeStyle="rgba(235,230,255,.28)";og.lineWidth=1;og.beginPath();o.trail.forEach((q,k)=>k?og.lineTo(q[0],q[1]):og.moveTo(q[0],q[1]));og.stroke()});
+ SPS.forEach(o=>o.sp.draw(og));
+ SPS.forEach((o,i)=>{const p=o.sp,b=o.b,txt=`${o.name}: ${o.msg}`;if(b.textContent!==txt)b.textContent=txt;const on=i%3===slot||(i===8);b.style.opacity=on?1:0;const bw=b.offsetWidth;
+  b.style.transform=`translate(${Math.max(4,Math.min(innerWidth-bw-4,p.x-bw/2))}px,${p.y-p.S*1.6-22}px)`});
+ requestAnimationFrame(loop)})(performance.now());
 loadChart();startPaper();
 </script></body></html>
